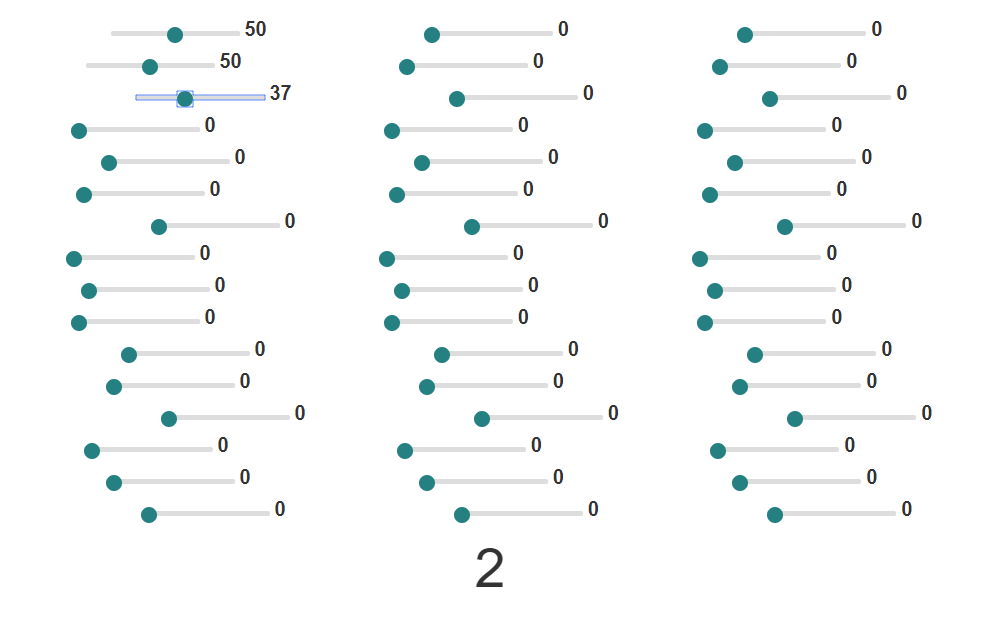
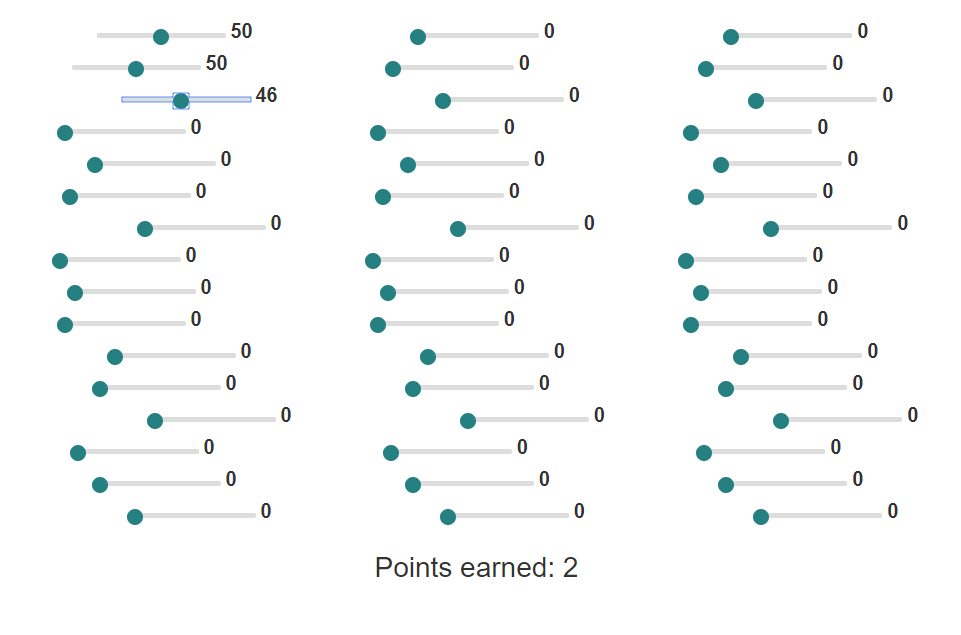
changes

diff --git a/pat_effort/templates/pat_effort/RealEffortPage.html b/pat_effort/templates/pat_effort/RealEffortPage.html
@@ -8,6 +8,7 @@
 {% block content %}
 
 <input type="hidden" name="tasksCompleted" value="0" id="tasksCompleted"/>
+<input type="hidden" name="surf_timing" id="surf_timing"/>
 
 <div id="surf" width="100%">
 <button type="button" id="surf_button" class="btn btn-primary">Surf the web</button><br>
@@ -18,7 +19,6 @@
   <div class="slider_row" id="slider_row2"></div>
   <div class="slider_row" id="slider_row3"></div>
 </div>
-<p id="taskCountText">Points earned: <span id="taskCount">0</span></p>
 
 {% block styles %}
 
@@ -63,9 +63,9 @@
     overflow:hidden;
   }
 
-  .otree-timer {
+  /*.otree-timer {
     display: none;
-  }
+  }*/
 
   /*#otree-timeout {
     font-size: 1.3em;
@@ -136,6 +136,7 @@
 <script>
 
 var round_number = {{ player.round_number|json }}
+var num_rounds = {{ Constants.num_rounds|json }}
 
 var tasksCompleted = 0;
 var pagesCompleted = 0;
@@ -152,8 +153,8 @@ if ($('#otree-title').html().includes('Trial')) {
   }
 }
 else {
-  for (i=0; i<5; i++) {
-    if (round_number == i) {
+  for (i=0; i<num_rounds; i++) {
+    if (round_number == i+1) {
       if (pagesStorage[i]) {
         pagesCompleted = parseInt(pagesStorage[i]);
       }
@@ -177,6 +178,7 @@ else {
 
 //Surf the web button-action
 $('#surf_button').click(function() {
+  $('#surf_timing').val(String($('.otree-timer__time-left').text()));
   var winSurf = window.open('http://google.com', '_blank');
   setInterval(function() {
     if (parseInt($('.otree-timer__time-left').html().substring(0)) < 1) {
@@ -248,7 +250,6 @@ function setCompletedTasks() {
   else {
     tasksCompleted = count + pagesCompleted*slidersPerPage;
   }
-  $('#taskCount').html(tasksCompleted);
 
   if($('#otree-title').html().includes('Trial')) {
     $('#tasksCompleted_trial').val(tasksCompleted);

diff --git a/pat_effort/templates/pat_effort/TrialResults.html b/pat_effort/templates/pat_effort/TrialResults.html
@@ -8,6 +8,11 @@
 {% block content %}
 
   <p>You completed <strong>{{ player.tasksCompleted_trial }}</strong> tasks</p>
+  <p>
+    You where allowed to work for {{ Constants.trial_minutes }} minutes in the trial. In the following rounds, you will be allowed to work for {{ Constants.worktime_minutes }} minutes each round.
+    There are {{ Constants.num_rounds }} rounds.<br><br>
+    The follwoing rounds will not include a count-down clock and you will not be given feedback about the amount of completed tasks before after the time runs out.<br><br>
+  </p>
 
     {% next_button %}
 {% endblock %}

diff --git a/pat_effort/views.py b/pat_effort/views.py
@@ -18,7 +18,7 @@ class TrialPage(Page):
     def is_displayed(self):
         return self.player.round_number == 1
 
-    timeout_seconds = 5
+    timeout_seconds = Constants.trial_minutes*60
 
     form_model = models.Player
     form_fields = ['tasksCompleted_trial']
@@ -71,10 +71,10 @@ class TaskPrep(Page):
 
 class RealEffortPage(Page):
 
-    timeout_seconds = 400
+    timeout_seconds = Constants.worktime_minutes*60
 
     form_model = models.Player
-    form_fields = ['tasksCompleted']
+    form_fields = ['tasksCompleted', 'surf_timing']
 
 
 class ResultsWaitPage(WaitPage):

diff --git a/pat_effort/models.py b/pat_effort/models.py
@@ -17,7 +17,8 @@ class Constants(BaseConstants):
 
     number_of_choices = 4
     point_conversion = 0.25
-    worktime_minutes = 10
+    worktime_minutes = 15
+    trial_minutes = 3
 
     with open ('pat_effort/commit_choices.csv') as csvfile:
         commitChoices = list(csv.DictReader(csvfile))
@@ -174,6 +175,8 @@ class Player(BasePlayer):
 
     partner_id = models.CharField()
     player_id = models.CharField()
+
+    surf_timing = models.CharField()
 
     choice_cost = models.IntegerField(initial=0)
 
